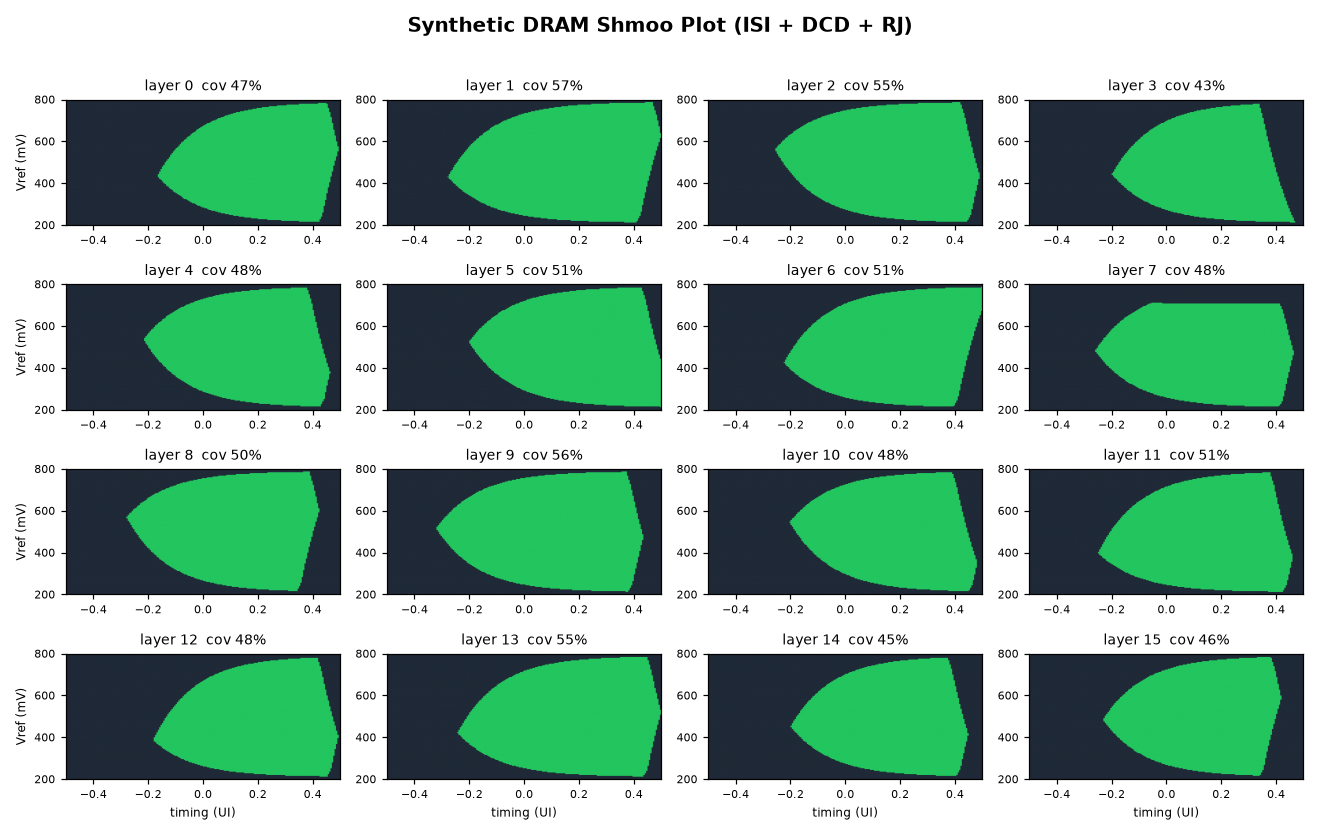
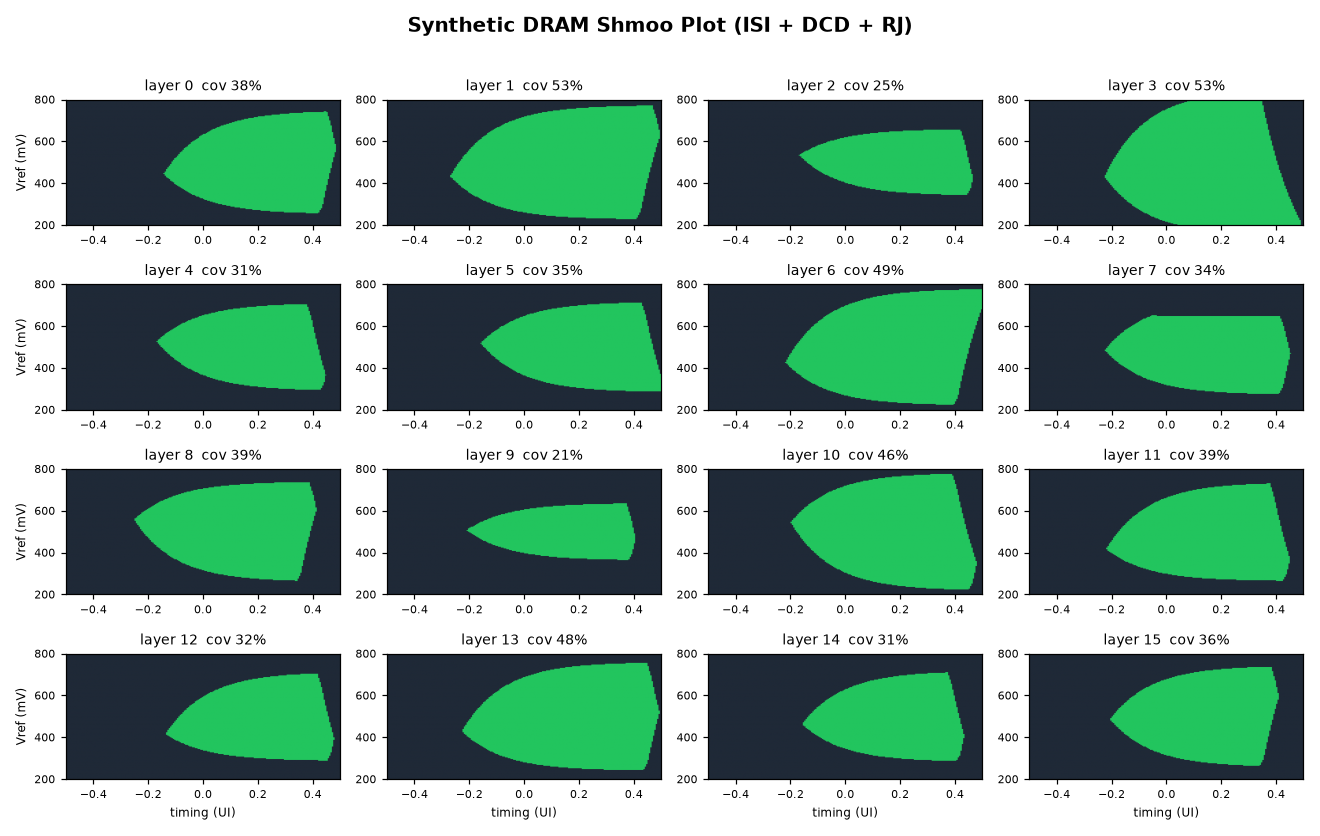
Spread blob coverage over per-layer range [20%, 55%]
Replace the single global 50% coverage target with per-layer targets drawn
uniformly from [20%, 55%], each met by a per-layer calibrated guard band.
Fixed-50% eyes were large and similar, over-emphasizing the inherent
left/right edge asymmetry; mixing smaller eyes in adds diversity and tones
it down.

- shmoo_eval.generate_dataset: coverage_range=(0.20, 0.55); per-layer guard
  calibration; wider guard search bounds [-0.6, 0.7]
- visualize_shmoo.py: --coverage-range LO HI
- docs + journal updated; regenerated preview PNGs

seed 0: coverage 21-53%, eye height 270-600 mV (was ~568 mV constant),
width 0.59-0.76 UI.

Claude-Session: https://claude.ai/code/session_01BXLTG8Nojd3yNq9VSTgSKL

diff --git a/src/shmoo/shmoo_eval.py b/src/shmoo/shmoo_eval.py
@@ -159,7 +159,7 @@ def generate_dataset(
     seed: int = 0,
     n_layers: int = 16,
     *,
-    target_coverage: float | None = 0.5,
+    coverage_range: tuple[float, float] = (0.20, 0.55),
     guard_v: float | None = None,
     cfg: ShmooConfig | None = None,
 ) -> tuple[np.ndarray, np.ndarray, np.ndarray]:
@@ -171,42 +171,46 @@ def generate_dataset(
     truth_outlier_mask : (n_layers, H, W) uint8 — all zeros (no outliers)
     truth_full_mask    : (n_layers, H, W) uint8 — equals truth_blob_mask
 
-    Coverage is controlled by a single global guard band ``guard_v``. If
-    ``guard_v`` is None and ``target_coverage`` is set, the guard is calibrated
-    so the mean coverage across layers matches the target; per-layer coverage
-    then spreads around it.
+    Each layer is given an independent coverage target drawn uniformly from
+    ``coverage_range``; a per-layer guard band is then calibrated to hit it.
+    This spreads coverage across the range (more diversity, smaller eyes mixed
+    in). If ``guard_v`` is given, it overrides calibration with a fixed guard
+    for every layer.
     """
     cfg = cfg or ShmooConfig(H=H, W=W)
     cfg.H, cfg.W = H, W
 
     child_seeds = _child_seeds(seed, n_layers)
+    cov_targets = np.random.default_rng(seed * 2 + 1).uniform(
+        coverage_range[0], coverage_range[1], size=n_layers
+    )
 
-    # Envelopes are independent of the guard band, so compute them once.
-    envelopes = []
-    for cs in child_seeds:
+    masks = []
+    for i, cs in enumerate(child_seeds):
         rng = np.random.default_rng(cs)
         isi_scale = _layer_isi_scale(rng)
-        envelopes.append(layer_envelopes(rng, cfg, isi_scale=isi_scale))
+        # Envelopes are independent of the guard, so compute once per layer.
+        min_high, max_low = layer_envelopes(rng, cfg, isi_scale=isi_scale)
+        if guard_v is not None:
+            g = guard_v
+        else:
+            g = _calibrate_guard(
+                lambda gg, mh=min_high, ml=max_low: float(_threshold(mh, ml, cfg, gg).mean()),
+                cov_targets[i],
+            )
+        masks.append(_threshold(min_high, max_low, cfg, g))
 
-    def coverage(g: float) -> float:
-        total = sum(_threshold(mh, ml, cfg, g).mean() for mh, ml in envelopes)
-        return total / len(envelopes)
-
-    if guard_v is None and target_coverage is not None:
-        guard_v = _calibrate_guard(coverage, target_coverage)
-    elif guard_v is None:
-        guard_v = 0.0
-
-    blob = np.stack([_threshold(mh, ml, cfg, guard_v) for mh, ml in envelopes])
+    blob = np.stack(masks)
     out = np.zeros_like(blob)
     return blob, out, blob.copy()
 
 
-def _calibrate_guard(coverage_fn, target: float, lo: float = -0.45,
-                     hi: float = 0.45, iters: int = 28) -> float:
-    """Binary-search the guard band so mean coverage matches ``target``.
+def _calibrate_guard(coverage_fn, target: float, lo: float = -0.6,
+                     hi: float = 0.7, iters: int = 30) -> float:
+    """Binary-search the guard band so coverage matches ``target``.
 
-    Coverage decreases monotonically as the guard increases.
+    Coverage decreases monotonically as the guard increases. Negative guards
+    dilate the eye beyond the raw envelopes (for targets above raw coverage).
     """
     for _ in range(iters):
         mid = (lo + hi) / 2.0

diff --git a/tools/visualize_shmoo.py b/tools/visualize_shmoo.py
@@ -129,7 +129,8 @@ def main() -> None:
     parser = argparse.ArgumentParser(description="Shmoo blob generator + viz.")
     parser.add_argument("--seed", type=int, default=0)
     parser.add_argument("--n-layers", type=int, default=16)
-    parser.add_argument("--coverage", type=float, default=0.5)
+    parser.add_argument("--coverage-range", type=float, nargs=2,
+                        default=(0.20, 0.55), metavar=("LO", "HI"))
     parser.add_argument("--selftest", action="store_true")
     parser.add_argument("--outdir", type=Path, default=ROOT / "docs" / "images")
     args = parser.parse_args()
@@ -141,13 +142,14 @@ def main() -> None:
     t0 = time.perf_counter()
     blob, out, full = generate_dataset(
         H=cfg.H, W=cfg.W, seed=args.seed, n_layers=args.n_layers,
-        target_coverage=args.coverage, cfg=cfg,
+        coverage_range=tuple(args.coverage_range), cfg=cfg,
     )
     elapsed = time.perf_counter() - t0
 
     coverages = blob.reshape(args.n_layers, -1).mean(axis=1)
+    lo, hi = args.coverage_range
     print(f"\ngenerated {blob.shape} in {elapsed:.2f}s  "
-          f"(seed={args.seed}, target cov={args.coverage:.0%})")
+          f"(seed={args.seed}, cov range {lo:.0%}-{hi:.0%})")
     print(f"mean coverage {coverages.mean()*100:.1f}%  "
           f"[min {coverages.min()*100:.1f}%, max {coverages.max()*100:.1f}%]")
     assert np.array_equal(full, blob) and out.sum() == 0, "contract: full==blob, no outliers"

diff --git a/docs/shmoo_model.md b/docs/shmoo_model.md
@@ -25,6 +25,7 @@ PASS 픽셀의 연결 영역이 eye 모양 blob을 형성합니다. 가우시안
 | 출력 shape | `(16, 150, 200)` = `(layers, H=Vref행, W=timing열)` |
 | 레이어 수 | 16 (독립 생성) |
 | 커버리지 목표 | 50% (커버리지 래더 C1, 아래 참조) |
+| 커버리지 | 레이어별 20%~55% 균등 분포 |
 | 구멍 | 없음 (eye 내부는 단조 PASS) |
 | 이상치 | 없음 (eye 외부는 단조 FAIL) |
 | `truth_outlier_mask` | 전부 0 (텐서 계약 유지용) |
@@ -121,15 +122,14 @@ def soft_saturate(v, v_low=0.0, v_high=1.0, k=10.0):
 전 레이어 동일 양으로 흔들면 아이가 평행이동만 하므로, skew는 반드시
 패턴별·레이어별로 **독립**이어야 한다.
 
-## 커버리지 래더
+## 커버리지
 
-| 단계 | 커버리지 | 상태 |
-|---|---:|---|
-| C1 | 50% | 현재 목표 |
-| C2+ | 점차 낮춤 | TODO — 더 어려운 데이터로 단계적 하향 |
+레이어마다 독립적인 커버리지 목표를 `[20%, 55%]`에서 균등 추출하고,
+레이어별 guard band를 이분 탐색으로 보정해 그 목표를 맞춘다. 작은 eye가
+섞여 다양성이 커지고, 좌우 비대칭도 덜 두드러진다. `guard_v`를 직접 주면
+모든 레이어에 고정 guard가 적용된다.
 
-평균 50%는 전역 노브 하나로 자동 보정한다. 레이어별로는 다양성 때문에
-50% 근처로 퍼진다.
+향후: 범위를 더 낮춰 난도를 올리는 것은 TODO.
 
 ## `generate_shmoo` 파라미터 (예정)
 
@@ -164,11 +164,12 @@ def generate_shmoo(
 
 - 셀프체크 통과: `received[17]` 인과 ISI 식 일치, MC 붕괴가 명시적
   전수 AND와 비트 단위로 동일.
-- seed 0 기준 16레이어 생성 0.08s, 평균 커버리지 50.0% (레이어별 43~57%).
-- **수직 다양성은 약함**: `sat_k=10`이 중심 전압을 거의 0/1로 포화시켜
-  eye 높이가 대부분 ~568 mV(600 mV 창에 근접)로 비슷하다. 다양성은
-  주로 수평(폭 0.65~0.78 UI)과 커버리지로 나타난다. 수직 변화를 더
-  원하면 `sat_k`를 낮춘다.
+- seed 0 기준 16레이어 생성 0.08s. 커버리지 범위 `[20%,55%]`에서
+  레이어별 21~53%로 분포. eye 높이 270~600 mV, 폭 0.59~0.76 UI로
+  수직·수평 모두 다양해짐(커버리지 고정 50% 때보다 개선).
+- `sat_k=10`은 여전히 중심 전압을 거의 0/1로 포화시키지만, 레이어별
+  커버리지 차이(guard band)가 eye 크기를 크게 벌려 수직 다양성을 만든다.
+  더 큰 변화를 원하면 `sat_k`를 낮춘다.
 - **eye는 우측으로 비대칭**: 타겟 비트 leading 에지의 상승시간이 창의
   좌측을 잠식하고 trailing 에지는 +0.5 경계에서 시작하므로 개구부가
   대략 `[-0.2, +0.5] UI`로 치우친다. 물리적으로 정상이며 다양성에 기여.

diff --git a/journal.md b/journal.md
@@ -391,6 +391,28 @@ Observations:
 
 Dropped `scipy` from requirements (no longer used); added `matplotlib`.
 
+## 2026-06-18 — Coverage Range [20%, 55%]
+
+Changed coverage from a single global 50% target to per-layer targets drawn
+uniformly from [20%, 55%], each hit by a per-layer calibrated guard band.
+
+Motivation: the fixed-50% eyes were large and similar, which over-emphasized
+the inherent left/right edge asymmetry. Mixing smaller eyes in adds diversity
+and tones the asymmetry down.
+
+Result (seed 0):
+
+```text
+mean coverage 38.1%  [min 21.0%, max 53.3%]
+eye height 270-600 mV, eye width 0.59-0.76 UI
+```
+
+Now both vertical (eye height) and horizontal (width) diversity are strong,
+unlike the fixed-50% case where height was nearly constant (~568 mV).
+
+API: `generate_dataset(..., coverage_range=(0.20, 0.55))`. A fixed `guard_v`
+still overrides calibration. CLI: `--coverage-range LO HI`.
+
 ## Durable Lessons
 
 1. Query strategy and reconstruction are coupled. Do not swap reconstruction

diff --git a/README.md b/README.md
@@ -19,9 +19,9 @@
 원본 요구 프롬프트는 [todo.md](todo.md)에 있습니다. 생성기는
 `src/shmoo/`에 구현되어 있습니다.
 
-### 미리보기 (seed 0, 16 layers, 150x200, 커버리지 50%)
+### 미리보기 (seed 0, 16 layers, 150x200, 커버리지 20~55%)
 
-PASS=초록, FAIL=어두움. 레이어마다 폭/비대칭/커버리지가 다릅니다.
+PASS=초록, FAIL=어두움. 레이어마다 크기/폭/비대칭/커버리지가 다릅니다.
 
 ![Shmoo layers](docs/images/shmoo_seed000.png)
 
@@ -46,7 +46,7 @@ python tools/visualize_shmoo.py --selftest --seed 0
 | 레이어 수 | 16 |
 | 그리드 | 150 x 200 (행=Vref, 열=timing) |
 | 데이터 도메인 | DRAM Shmoo Plot (PASS 영역 = blob) |
-| 커버리지 목표 | 50% (커버리지 래더 C1) |
+| 커버리지 | 레이어별 20%~55% 균등 분포 |
 | 구멍/이상치 | 없음 (`truth_outlier=0`, `truth_full==truth_blob`) |
 | Iteration cap | `int(0.15 * H * W)` = `150x200` 기준 4,500 |
 | Public seed suite | `[0..9]`, 개발/비교용 |